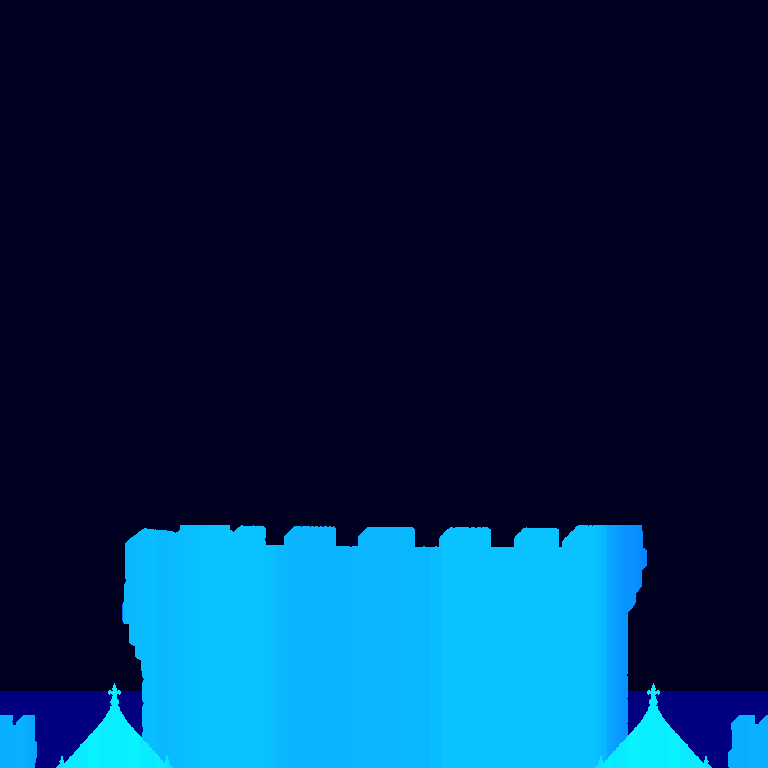
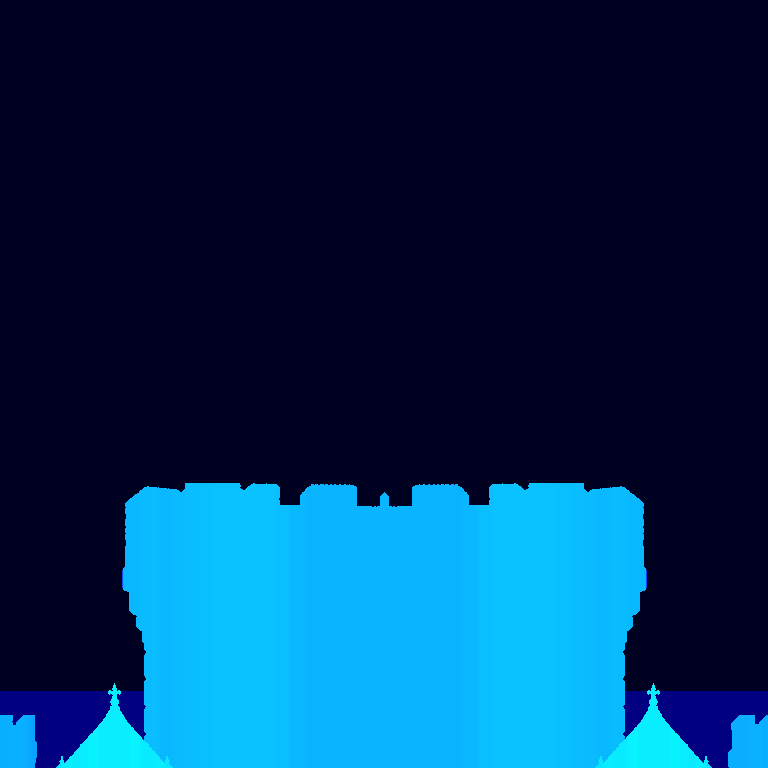
Castle gatehouse made exactly front-facing (mirrored about the arch centre)
Claude-Session: https://claude.ai/code/session_01Eh7z8CyPiHhErrHsYWpfjF

Changed region(s): [[0.1562, 0.625, 0.8438, 0.9688], [0.1562, 0.75, 0.1875, 0.875]]

diff --git a/tools/castle8_build.py b/tools/castle8_build.py
@@ -201,7 +201,33 @@ def walkway(width_ref):
 
 
 def gate(width_ref):
-    return P(('gate', width_ref), lambda: shrink(straighten(cut('gate'), 0.0, 0.0), tw=width_ref * K))
+    """The gatehouse, made exactly front-facing: the generator drew it turned (its right
+    side wall shows), so the straight left half is mirrored about the arch's centre."""
+    def make():
+        g = straighten(cut('gate'), 0.0, 0.0)
+        a = g[..., 3] > 0.5
+        c = g[..., :3].mean(2)
+        h = g.shape[0]
+        # the arch centre: the middle of the dark opening's widest rows
+        dark = (c < 70) & a
+        rows = dark[int(h * 0.6):int(h * 0.85)]
+        xs = np.nonzero(rows.sum(0) > rows.shape[0] * 0.5)[0]
+        cx = int(round((xs.min() + xs.max()) / 2))
+        # refine: the line about which the arch, shield and portcullis are most symmetric
+        band = g[int(h * 0.38):int(h * 0.9), :, :3].mean(2)
+        best = None
+        for cand in range(cx - 60, cx + 61):
+            r = min(cand, band.shape[1] - cand, 260)
+            d = np.abs(band[:, cand - r:cand] - band[:, cand:cand + r][:, ::-1]).mean()
+            if best is None or d < best[0]:
+                best = (d, cand)
+        cx = best[1]
+        left = g[:, :cx]
+        sym = np.concatenate([left, left[:, ::-1]], 1)
+        ys, xs2 = np.nonzero(sym[..., 3] > 0.5)
+        sym = sym[ys.min():ys.max() + 1, xs2.min():xs2.max() + 1]
+        return shrink(sym, tw=width_ref * K)
+    return P(('gate', width_ref), make)
 
 
 def waterfall():

diff --git a/docs/stages/18-castle-rebuilt-outer.md b/docs/stages/18-castle-rebuilt-outer.md
@@ -26,6 +26,7 @@
 - **Assets:**
   - Each one is cut from its magenta sheet and shrunk by area averaging, with hard alpha.
   - **Tilt fix:** the generator tilted the "straight" wall (its foot dropped 0.40 per px) and the diagonal one (0.58 instead of 0.5). Each column is remapped so the front face becomes an exact rectangle at the right slope. Verticals stay vertical; nothing is rotated.
+  - **Gatehouse fix:** the generator drew the gatehouse turned (its right side wall shows) although the prompt asked for front-facing. The straight left half is mirrored about the arch's centre, found by testing which line makes the arch, shield and portcullis most symmetric, so the gate is exactly front-facing.
 - **Towers:** a body segment (with or without a banner), stacked taller with plain masonry where needed, plus the conical roof.
 - **Walking is explicit:**
   - Kael can walk only on the causeway strip (through both gate arches) and the inner enclosure polygon.
